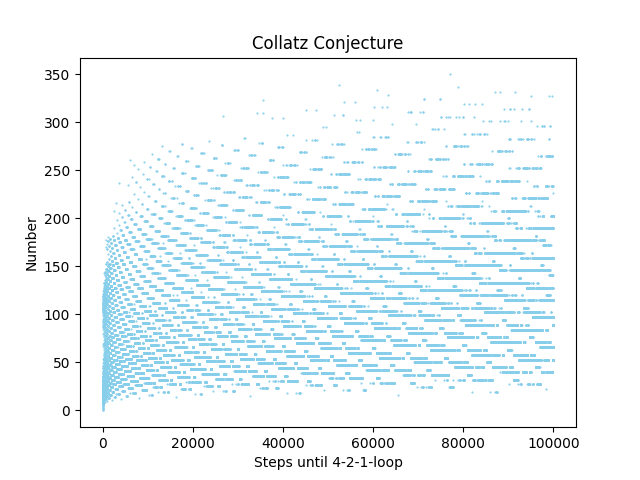
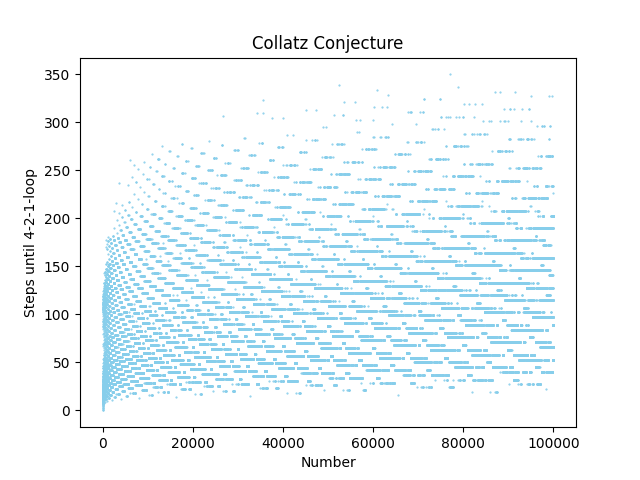
aa

Changed region(s): [[0.0312, 0.3438, 0.0625, 0.6562], [0.4062, 0.9375, 0.625, 1.0]]

diff --git a/collatz/simulation.py b/collatz/simulation.py
@@ -26,8 +26,8 @@ def main():
 
 	plt.scatter(xs, ys, color='skyblue', s=0.3)
 	# Add labels and a title
-	plt.xlabel('Steps until 4-2-1-loop')
-	plt.ylabel('Number')
+	plt.xlabel('Number')
+	plt.ylabel('Steps until 4-2-1-loop')
 	plt.title('Collatz Conjecture')
 
 	#plt.show()
